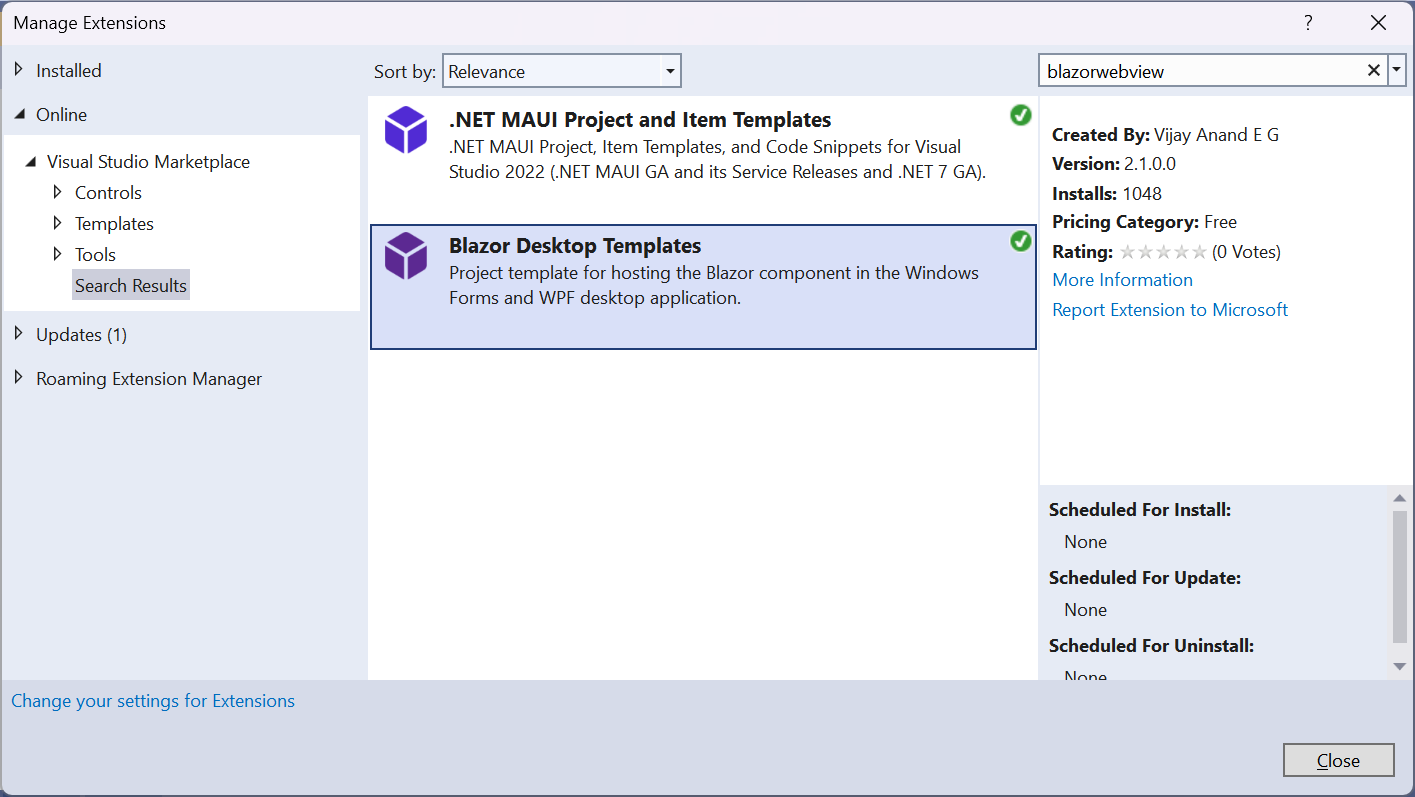
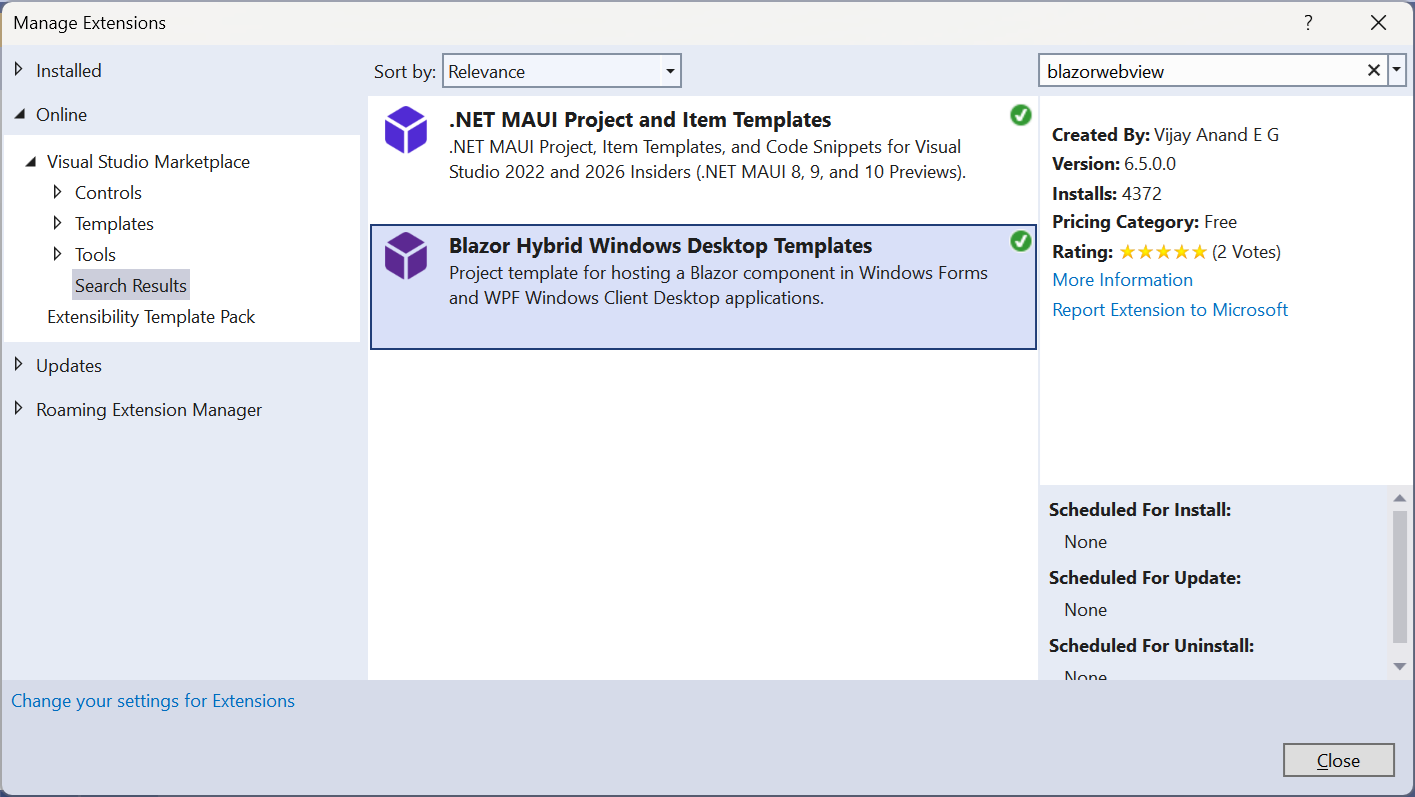
Docs updated #128 #129

diff --git a/README.md b/README.md
@@ -1,4 +1,4 @@
-## Blazor Desktop Project Templates
+## Blazor Hybrid Windows Desktop Project Templates
 
 ### Blazor desktop project templates for Windows Forms and WPF
 
@@ -16,11 +16,13 @@ Join me on [**Developer Thoughts**](https://egvijayanand.in/), an exclusive blog
 
 Now published as Visual Studio 2022 Extension, can be downloaded from the [VS Marketplace](https://marketplace.visualstudio.com/items?itemName=egvijayanand.blazor-desktop-templates) and then installed with VSIX installer or even an easy way, install and manage directly from within Visual Studio IDE itself (Extensions -> Manage Extensions or `Alt + X + M` shortcut). To find this extension, search with the `blazorwebview` keyword. Refer to the below screenshot.
 
-The Blazor Desktop Templates Pack VS extension (v4.3.0.0 or higher) is now supported on both **x64 and ARM64** installations of Visual Studio 2022. Happy coding!
+The Blazor Hybrid Windows Desktop Templates VS extension is now supported on both **x64 and ARM64** installations of Visual Studio 2022 (v4.3.0.0 or higher) and 2026 Insiders release (v6.6.0.0). Happy coding!
 
 *Consequently, the minimum supported version of Visual Studio 2022 will be v17.6 or higher.*
 
-![Visual Studio – Manage Extensions (Blazor Desktop Templates in focus)](./images/vs-manage-extensions.png)
+**The v6.6.0.0 VS extension is now compatible with the Visual Studio 2026 Insiders release v18.0.0**
+
+![Visual Studio – Manage Extensions (Blazor Hybrid Windows Desktop Templates in focus)](./images/vs-manage-extensions.png)
 
 For CLI users, commands to install the project template:
 
